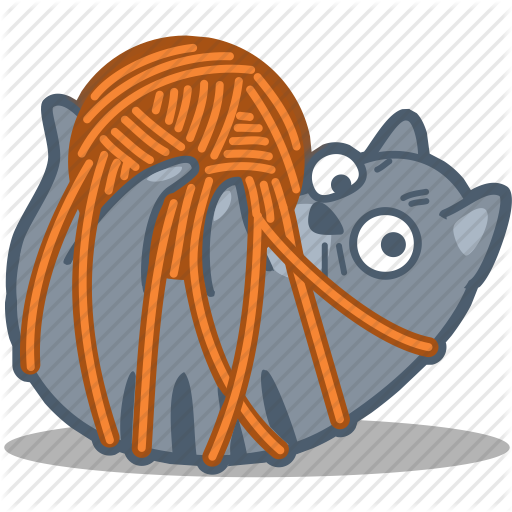
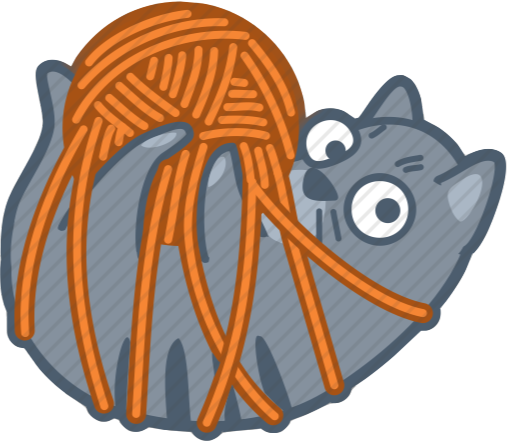
[FEATURE] Add animated loading screen, with improved cat img

diff --git a/app/src/views/LoadingView.js b/app/src/views/LoadingView.js
@@ -1,9 +1,10 @@
 'use strict';
-
 var View = require('famous/core/View');
 var Surface = require('famous/core/Surface');
 var ImageSurface = require('famous/surfaces/ImageSurface');
 var StateModifier = require('famous/modifiers/StateModifier');
+var Modifier = require('famous/core/Modifier');
+var Transform = require('famous/core/Transform');
 
 function LoadingView(){
   console.log('Created LoadingView');
@@ -22,20 +23,30 @@ LoadingView.prototype.constructor = LoadingView;
 LoadingView.DEFAULT_OPTIONS = {};
 
 function _createSurface(){
+  var initialTime = Date.now();
+  var count = 0;
   this.rootMod = new StateModifier({
-    align: [0.5,0.1],
-    origin: [0.5, 0.1]
-  });
-
-  this.loadingImageMod = new StateModifier({
     align: [0.5,0.5],
     origin: [0.5, 0.5]
   });
 
+   var centerSpinModifier = new Modifier({
+      align: [0.5, 0.5],
+      origin: [0.5, 0.5],
+      transform: function() {
+        return Transform.rotateZ(.002 * (Date.now() - initialTime));
+      }
+    });
+
+  this.loadingTextModifier = new Modifier({
+    transform: Transform.translate(0,15,0)
+  })
+
   this.loadingText = new Surface({
-    content: 'LOADING!',
+    content: 'LOADING...',
     properties:{
-      textAlign: 'center'
+      textAlign: 'center',
+      lineHeight: '100px'
     }
   });
 
@@ -43,9 +54,10 @@ function _createSurface(){
     size: [200,200],
     content: 'assets/catTied.png'
   });
+
   var rootNode = this.add(this.rootMod);
-  rootNode.add(this.loadingText);
-  rootNode.add(this.loadingImageMod).add(this.loadingImage);
+  rootNode.add(this.loadingTextModifier).add(this.loadingText);
+  rootNode.add(centerSpinModifier).add(this.loadingImage);
 }
 
 module.exports = LoadingView;

diff --git a/app/src/services/serverRequests.js b/app/src/services/serverRequests.js
@@ -27,7 +27,6 @@ Stores strings of _id in cache
 */
 
 serverRequests.getData = function(){
-  serverRequests.emitter.emit('Loading');
   var getURL;
   if(serverRequests.user.id){
     getURL = 'http://photoyarn.azurewebsites.net/getAllYarns/' + serverRequests.user.id;
@@ -45,7 +44,6 @@ serverRequests.getData = function(){
         this.cache[id] = this.data.length;
         this.data.push(cur);
       }
-      serverRequests.emitter.emit('Loaded');
     }.bind(this),
     error: function (error) {
       console.log('Get Data Error: ', error);
@@ -58,7 +56,6 @@ Checks for updated data from server, updates cache and data array if new info fo
 Should emit an update event when update is succesful, to dictate state changes
 */
 serverRequests.updateData = function(){
-  serverRequests.emitter.emit('Loading');
   var getURL;
   if(serverRequests.user.id){
     getURL = 'http://photoyarn.azurewebsites.net/getAllYarns/' + serverRequests.user.id;
@@ -97,6 +94,7 @@ Requires a data object with a caption, and a ._id which is the yarns unique id.
 Requires a b64 string of the image to post to imgur, data.b64image.
 */
 serverRequests.postToImgur = function(data, route){
+  serverRequests.emitter.emit('Loading');
   var serverData = {};
   serverData.caption = data.caption;
   //serverData.creatorId is hard coded currently, as we do not have users implemented yet!

diff --git a/app/src/main.js b/app/src/main.js
@@ -15,6 +15,7 @@ var oauth = require('./customComponents/oauth');
 
 //enable this eventListener and disable the serverRequests.getData call below for on device use
 document.addEventListener('deviceready', function() {
+  console.log('device ready!');
   var runningInCordova = true;
   oauth.login(function(response) {
     if (response.status === 'connected') {

diff --git a/app/src/customComponents/CustomLayout.js b/app/src/customComponents/CustomLayout.js
@@ -203,6 +203,7 @@ function _setListeners() {
 
   this.serverRequests.emitter.on('Loaded', function(){
     console.log('LOADING HAPPENED!');
+    this._activateButton(this.buttonRefs.viewFeed);
     this.feedView.trigger('refreshFeed', this.options.serverRequests.data);
     this.renderController.show(this.feedView);
   }.bind(this))
